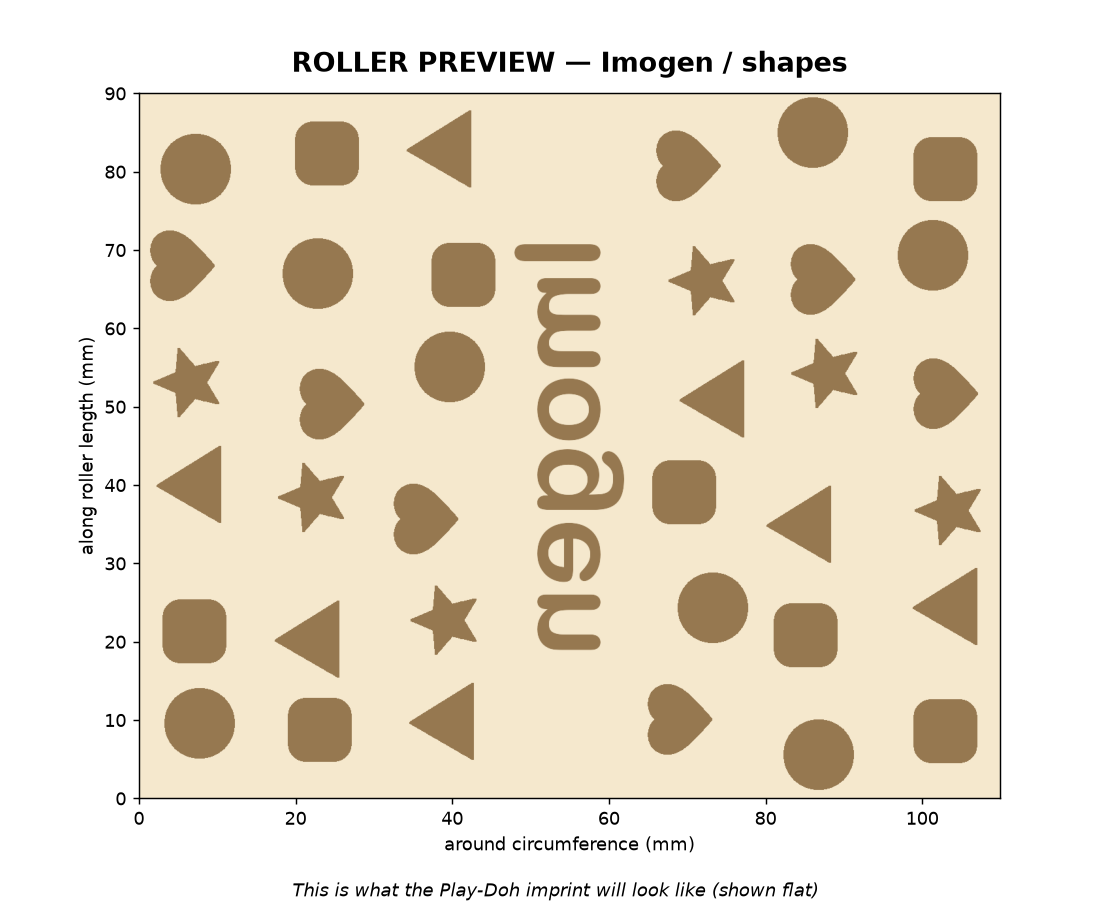
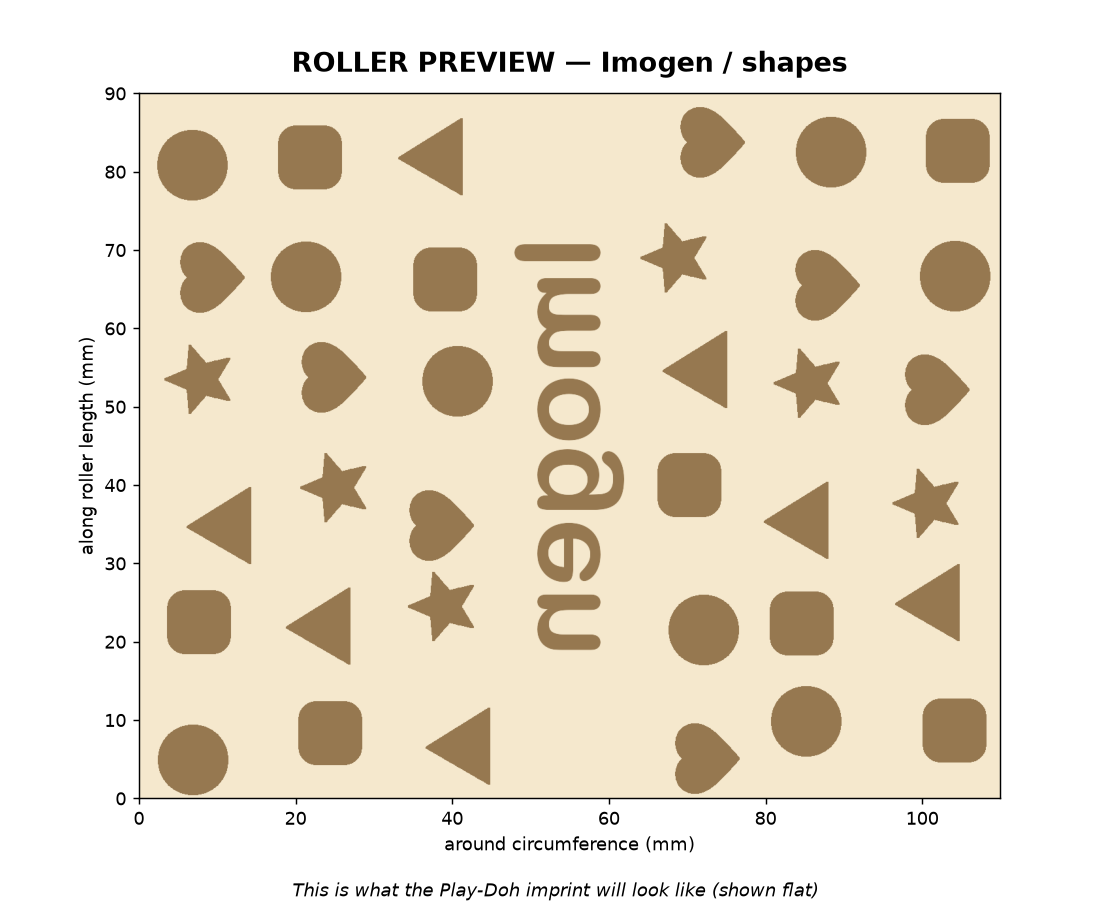
Add trucks theme + roller collection previews; keep STLs local-only
- New "trucks" theme (delivery truck + dump truck).
- Generate the full name collection previews (Ember, Imogen, Leo, Mikey, Zoey,
  Lincoln, Hazel, Caleb, Grace, Beau, Billie, Indie, Annie + sample previews).
- Major STL speed-up: drop the O(faces) fix_normals/process pass (watertightness
  comes from shared-vertex topology; the slicer auto-repairs winding). STL export
  ~9s instead of ~10min. Add vectorised vertex/face construction and --stamp-icon.
- Stop committing large STL/3MF binaries: git-ignore them and untrack the few
  that were committed. STLs are generated locally on demand (printable_files/).
- Docs: trucks in README/SKILL, note STLs are local-only.

diff --git a/playdoh_roller.py b/playdoh_roller.py
@@ -116,6 +116,7 @@ THEMES = {
                          ("heart.svg", "evenodd")],
     "cats":             [("cat.svg", "evenodd"), ("paw.svg", "evenodd")],
     "fruits":           [("banana.svg", "union"), ("apple.svg", "union")],
+    "trucks":           [("truck.svg", "union"), ("dumptruck.svg", "evenodd")],
 }
 
 
@@ -375,41 +376,37 @@ def _top_stamp_geometry(theme, R, relief, ppm, n_theta, thetas, start_index,
     ct = np.cos(thetas)
     st = np.sin(thetas)
 
-    def icon_x(r, i):
-        y = r * ct[i]
-        z = r * st[i]
-        u = int(round((0.5 + 0.5 * (y / R)) * (wimg - 1)))
-        v = int(round((0.5 + 0.5 * (z / R)) * (himg - 1)))
-        if 0 <= u < wimg and 0 <= v < himg and M[v, u]:
-            return -relief                  # raised outward from the x=0 end
-        return 0.0
-
-    new_verts = []
-    for k in range(1, K):                   # interior rings, radius R -> 0
-        r = R * (K - k) / K
-        for i in range(n_theta):
-            new_verts.append([icon_x(r, i), r * ct[i], r * st[i]])
+    # Interior rings k=1..K-1 (radius R -> 0), vectorised.
+    ks = np.arange(1, K)
+    r_k = (R * (K - ks) / K)[:, None]       # (K-1, 1)
+    Y = r_k * ct[None, :]                    # (K-1, n_theta)
+    Z = r_k * st[None, :]
+    U = np.clip(np.round((0.5 + 0.5 * (Y / R)) * (wimg - 1)).astype(int),
+                0, wimg - 1)
+    V = np.clip(np.round((0.5 + 0.5 * (Z / R)) * (himg - 1)).astype(int),
+                0, himg - 1)
+    Xr = np.where(M[V, U], -relief, 0.0)     # raised outward from the x=0 end
+    verts = np.stack([Xr.ravel(), Y.ravel(), Z.ravel()], axis=1)
     center_on = M[(himg - 1) // 2, (wimg - 1) // 2]
-    new_verts.append([-relief if center_on else 0.0, 0.0, 0.0])
+    verts = np.vstack([verts, [[-relief if center_on else 0.0, 0.0, 0.0]]])
     center_idx = start_index + (K - 1) * n_theta
 
-    def ridx(k, i):
-        if k == 0:
-            return i                         # shares the body's ring 0
-        return start_index + (k - 1) * n_theta + i
+    def ring_base(k):
+        return 0 if k == 0 else start_index + (k - 1) * n_theta
 
-    faces = []
-    for k in range(K - 1):
-        for i in range(n_theta):
-            i2 = (i + 1) % n_theta
-            a, b = ridx(k, i), ridx(k, i2)
-            c, d = ridx(k + 1, i), ridx(k + 1, i2)
-            faces.append([a, d, b])          # winding fixed later by fix_normals
-            faces.append([a, c, d])
-    for i in range(n_theta):
-        i2 = (i + 1) % n_theta
-        faces.append([ridx(K - 1, i), center_idx, ridx(K - 1, i2)])
-    return np.array(new_verts, dtype=np.float64), faces
+    I = np.arange(n_theta)
+    I2 = (I + 1) % n_theta
+    parts = []
+    for k in range(K - 1):                   # ~K iters of vectorised stacks
+        b0, b1 = ring_base(k), ring_base(k + 1)
+        a, b = b0 + I, b0 + I2
+        c, d = b1 + I, b1 + I2
+        parts.append(np.stack([a, d, b], axis=1))   # winding fixed by normals
+        parts.append(np.stack([a, c, d], axis=1))
+    bK = ring_base(K - 1)
+    parts.append(np.stack([bK + I, np.full(n_theta, center_idx), bK + I2],
+                          axis=1))
+    return verts, np.concatenate(parts)
 
 
 # ===========================================================================
@@ -446,56 +443,55 @@ def make_stl(name, theme, args):
     if args.top_stamp:
         radii[0, :] = R   # clean circular ring on the stamped (x=0) end
 
-    # Build vertices. Axis = X, cross-section in (Y, Z). We add a centre point at
-    # each end so the textured surface CLOSES INTO A SINGLE WATERTIGHT SOLID.
-    # (The earlier design left this as an open tube sitting on a separate core,
-    # which slicers saw as zero-thickness "floating" features that didn't print.
-    # Capping the ends makes every bump a real solid protrusion of one mesh.)
+    # Build vertices (vectorised). Axis = X, cross-section in (Y, Z). A centre
+    # point is added at each end so the textured surface CLOSES INTO A SINGLE
+    # WATERTIGHT SOLID. (The earlier design left this as an open tube on a
+    # separate core, which slicers saw as zero-thickness "floating" features
+    # that didn't print. Capping the ends makes every bump a real protrusion.)
     ct = np.cos(thetas)
     st = np.sin(thetas)
-    verts = np.empty((n_z * n_theta + 2, 3), dtype=np.float64)
-    for j in range(n_z):
-        r = radii[j]
-        base = j * n_theta
-        verts[base:base + n_theta, 0] = zs[j]
-        verts[base:base + n_theta, 1] = r * ct
-        verts[base:base + n_theta, 2] = r * st
-    c0 = n_z * n_theta            # centre of the z=0 end
-    c1 = n_z * n_theta + 1        # centre of the z=L end
-    verts[c0] = [0.0, 0.0, 0.0]
-    verts[c1] = [L, 0.0, 0.0]
+    grid = np.empty((n_z * n_theta, 3), dtype=np.float64)
+    grid[:, 0] = np.repeat(zs, n_theta)
+    grid[:, 1] = (radii * ct[None, :]).ravel()
+    grid[:, 2] = (radii * st[None, :]).ravel()
+    c0 = n_z * n_theta            # centre of the x=0 end
+    c1 = n_z * n_theta + 1        # centre of the x=L end
+    verts = np.vstack([grid, [[0.0, 0.0, 0.0]], [[L, 0.0, 0.0]]])
 
-    faces = []
-    # Side faces (quads -> 2 triangles), wrapping in theta.
-    for j in range(n_z - 1):
-        for i in range(n_theta):
-            i2 = (i + 1) % n_theta
-            a = j * n_theta + i
-            b = j * n_theta + i2
-            c = (j + 1) * n_theta + i
-            dd = (j + 1) * n_theta + i2
-            faces.append([a, b, dd])
-            faces.append([a, dd, c])
+    # Side faces (quads -> 2 triangles), wrapping in theta (vectorised).
+    J, I = np.meshgrid(np.arange(n_z - 1), np.arange(n_theta), indexing="ij")
+    I2 = (I + 1) % n_theta
+    a = J * n_theta + I
+    b = J * n_theta + I2
+    c = (J + 1) * n_theta + I
+    dd = (J + 1) * n_theta + I2
+    side = np.concatenate([
+        np.stack([a, b, dd], axis=-1).reshape(-1, 3),
+        np.stack([a, dd, c], axis=-1).reshape(-1, 3)])
+
     # Bed end (x=L) -> flat fan to its centre point.
+    Iv = np.arange(n_theta)
+    Iv2 = (Iv + 1) % n_theta
     top = (n_z - 1) * n_theta
-    for i in range(n_theta):
-        i2 = (i + 1) % n_theta
-        faces.append([c1, top + i2, top + i])
+    bed = np.stack([np.full(n_theta, c1), top + Iv2, top + Iv], axis=1)
 
+    face_parts = [side, bed]
     # Stamp end (x=0): either a raised icon stamp disk, or a plain flat fan.
     if args.top_stamp:
         sv, sf = _top_stamp_geometry(theme, R, args.stamp_relief, args.ppm,
                                      n_theta, thetas, start_index=c1 + 1,
                                      stamp_icon=args.stamp_icon)
         verts = np.vstack([verts, sv])
-        faces.extend(sf)
+        face_parts.append(sf)
     else:
-        for i in range(n_theta):
-            i2 = (i + 1) % n_theta
-            faces.append([c0, i, i2])
+        face_parts.append(np.stack([np.full(n_theta, c0), Iv, Iv2], axis=1))
 
-    body = trimesh.Trimesh(vertices=verts, faces=np.array(faces), process=True)
-    body.fix_normals()                              # consistent outward normals
+    faces = np.concatenate(face_parts)
+    # Watertightness comes from topology (every edge is shared by 2 faces via
+    # shared vertex indices), so we skip trimesh's expensive normal/merge passes
+    # (fix_normals builds a face-adjacency graph over >1M faces -> minutes).
+    # Normal winding is left for the slicer to auto-repair on import.
+    body = trimesh.Trimesh(vertices=verts, faces=faces, process=False)
     parts = [body]
 
     # Optional grip handles beyond each end (off by default — kept simple).

diff --git a/README.md b/README.md
@@ -2,8 +2,8 @@
 
 Make your own **personalized Play-Doh / clay texture rollers** — a cylinder with
 a kid's name embossed lengthways and a themed pattern of cute decorations
-(bees & flowers, dinosaurs, shapes, cats, fruits) wrapped around it. Roll it
-over Play-Doh and it stamps the name and pictures into the dough.
+(bees & flowers, dinosaurs, shapes, cats, fruits, trucks) wrapped around it. Roll
+it over Play-Doh and it stamps the name and pictures into the dough.
 
 One small Python script produces both a **flat PNG preview** of the imprint and
 a **print-ready STL**.
@@ -51,12 +51,16 @@ python playdoh_roller.py --name "Imogen" --theme shapes --preview --stl
 
 Outputs are named `preview_<name>_<theme>.png` and `roller_<name>_<theme>.stl`.
 
+> **Note:** the large STL files are **generated locally and not committed** to
+> this repo (they're git-ignored). The repo keeps the generator, assets, and the
+> preview PNGs; regenerate any STL on demand with the command above.
+
 ### Options
 
 | Flag | Default | Meaning |
 |---|---|---|
 | `--name` | `Ember` | Name embossed lengthways along the roller |
-| `--theme` | `bees_and_flowers` | `bees_and_flowers`, `dinosaurs`, `shapes`, `cats`, `fruits` |
+| `--theme` | `bees_and_flowers` | `bees_and_flowers`, `dinosaurs`, `shapes`, `cats`, `fruits`, `trucks` |
 | `--preview` | – | Write the flat imprint PNG |
 | `--stl` | – | Write the printable STL |
 | `--radius` | `17.5` | Barrel radius in mm (35 mm diameter) |
@@ -83,6 +87,7 @@ Outputs are named `preview_<name>_<theme>.png` and `roller_<name>_<theme>.stl`.
 | ⭐ `shapes` | circle, square, triangle, star, heart |
 | 🐱 `cats` | cat face + paw print |
 | 🍎 `fruits` | apple + banana |
+| 🚚 `trucks` | delivery truck + dump truck |
 
 Decorations are **real, open-licensed silhouette icons** (not hand-drawn),
 rasterized from the SVGs in [`assets/`](assets) — see
@@ -115,7 +120,7 @@ To use it: roll the barrel over your Play-Doh by hand. 🎉
 playdoh_roller.py     the generator (single self-contained script)
 assets/               decoration SVGs + ATTRIBUTION.md
 previews/             example imprint previews (PNG)
-printable_files/      ready-to-slice STL/3MF files
+printable_files/      where STLs are written locally (git-ignored, not committed)
 SKILL.md              full reference / how it works
 ```
 

diff --git a/printable_files/README.md b/printable_files/README.md
@@ -1,0 +1,4 @@
+# Printable files
+
+STL files are generated here by `playdoh_roller.py --stl`.
+They are **git-ignored** (large binaries) — regenerate on demand; they are not committed.

diff --git a/archive/README.md b/archive/README.md
@@ -14,8 +14,9 @@ archived here so the choice is clear when revisiting the repo.
 
 Contents:
 - `SKILL_v2.md` — the v2 skill doc
-- `printable_files/` — the v2 STLs (`roller_*_v2.stl`)
 - `previews/` — the v2 previews (`preview_*_v2.png`)
+
+(v2 STLs are git-ignored like all STLs — regenerate with `--engrave` if needed.)
 
 The code path still exists in `playdoh_roller.py` via the `--engrave` flag if you
 ever want to regenerate a v2 roller, but the default (no flag) produces the

diff --git a/assets/ATTRIBUTION.md b/assets/ATTRIBUTION.md
@@ -19,6 +19,8 @@ as bold silhouette stamps.
 | triangle.svg | mdi:triangle | Material Design Icons | Apache 2.0 |
 | star.svg | mdi:star | Material Design Icons | Apache 2.0 |
 | heart.svg | mdi:heart | Material Design Icons | Apache 2.0 |
+| truck.svg | noto:delivery-truck | Google Noto Emoji | Apache 2.0 / CC BY 4.0 |
+| dumptruck.svg | mdi:dump-truck | Material Design Icons | Apache 2.0 |
 
 Multicolor Noto emoji are flattened to a single silhouette (union of all
 sub-paths) at rasterization time. All other icons are single-colour and use